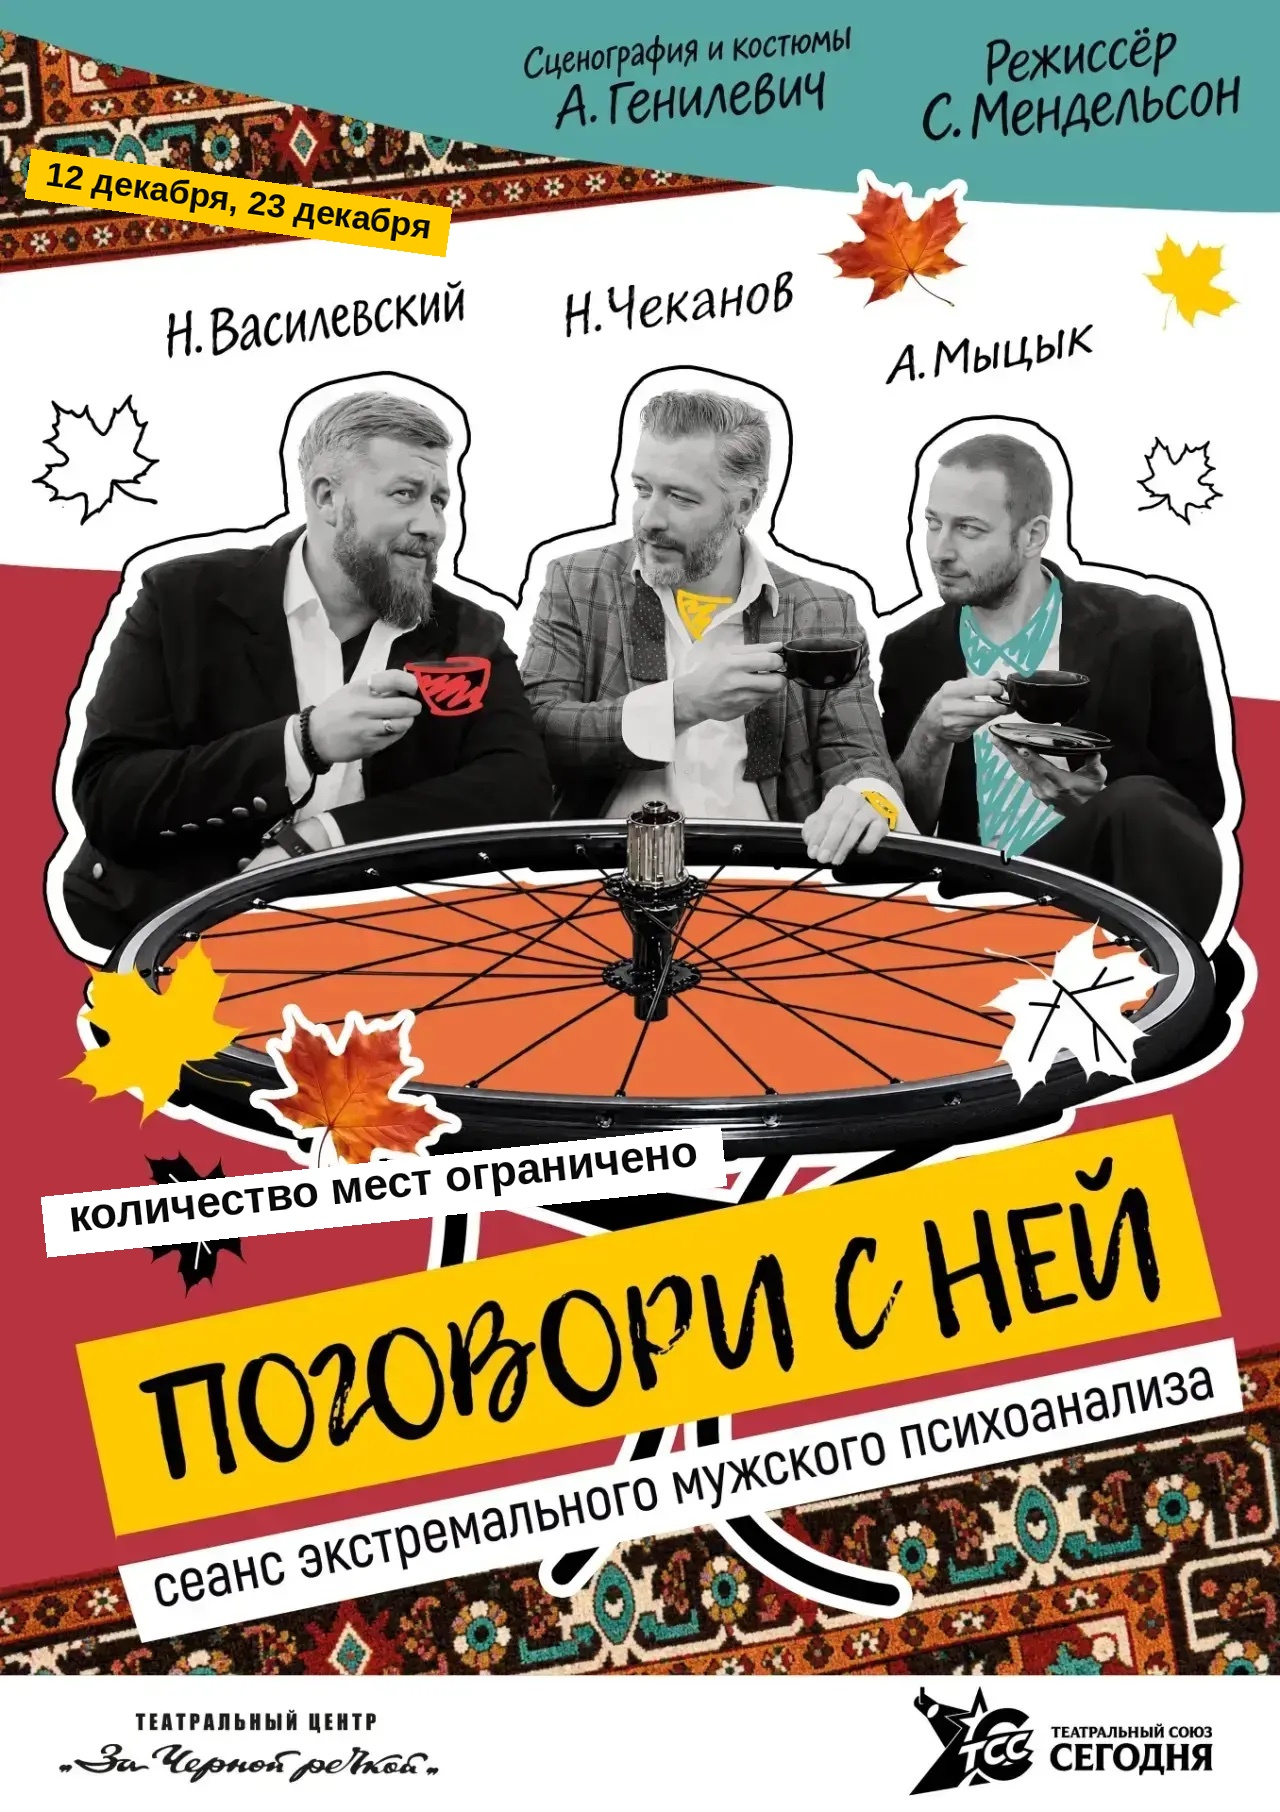
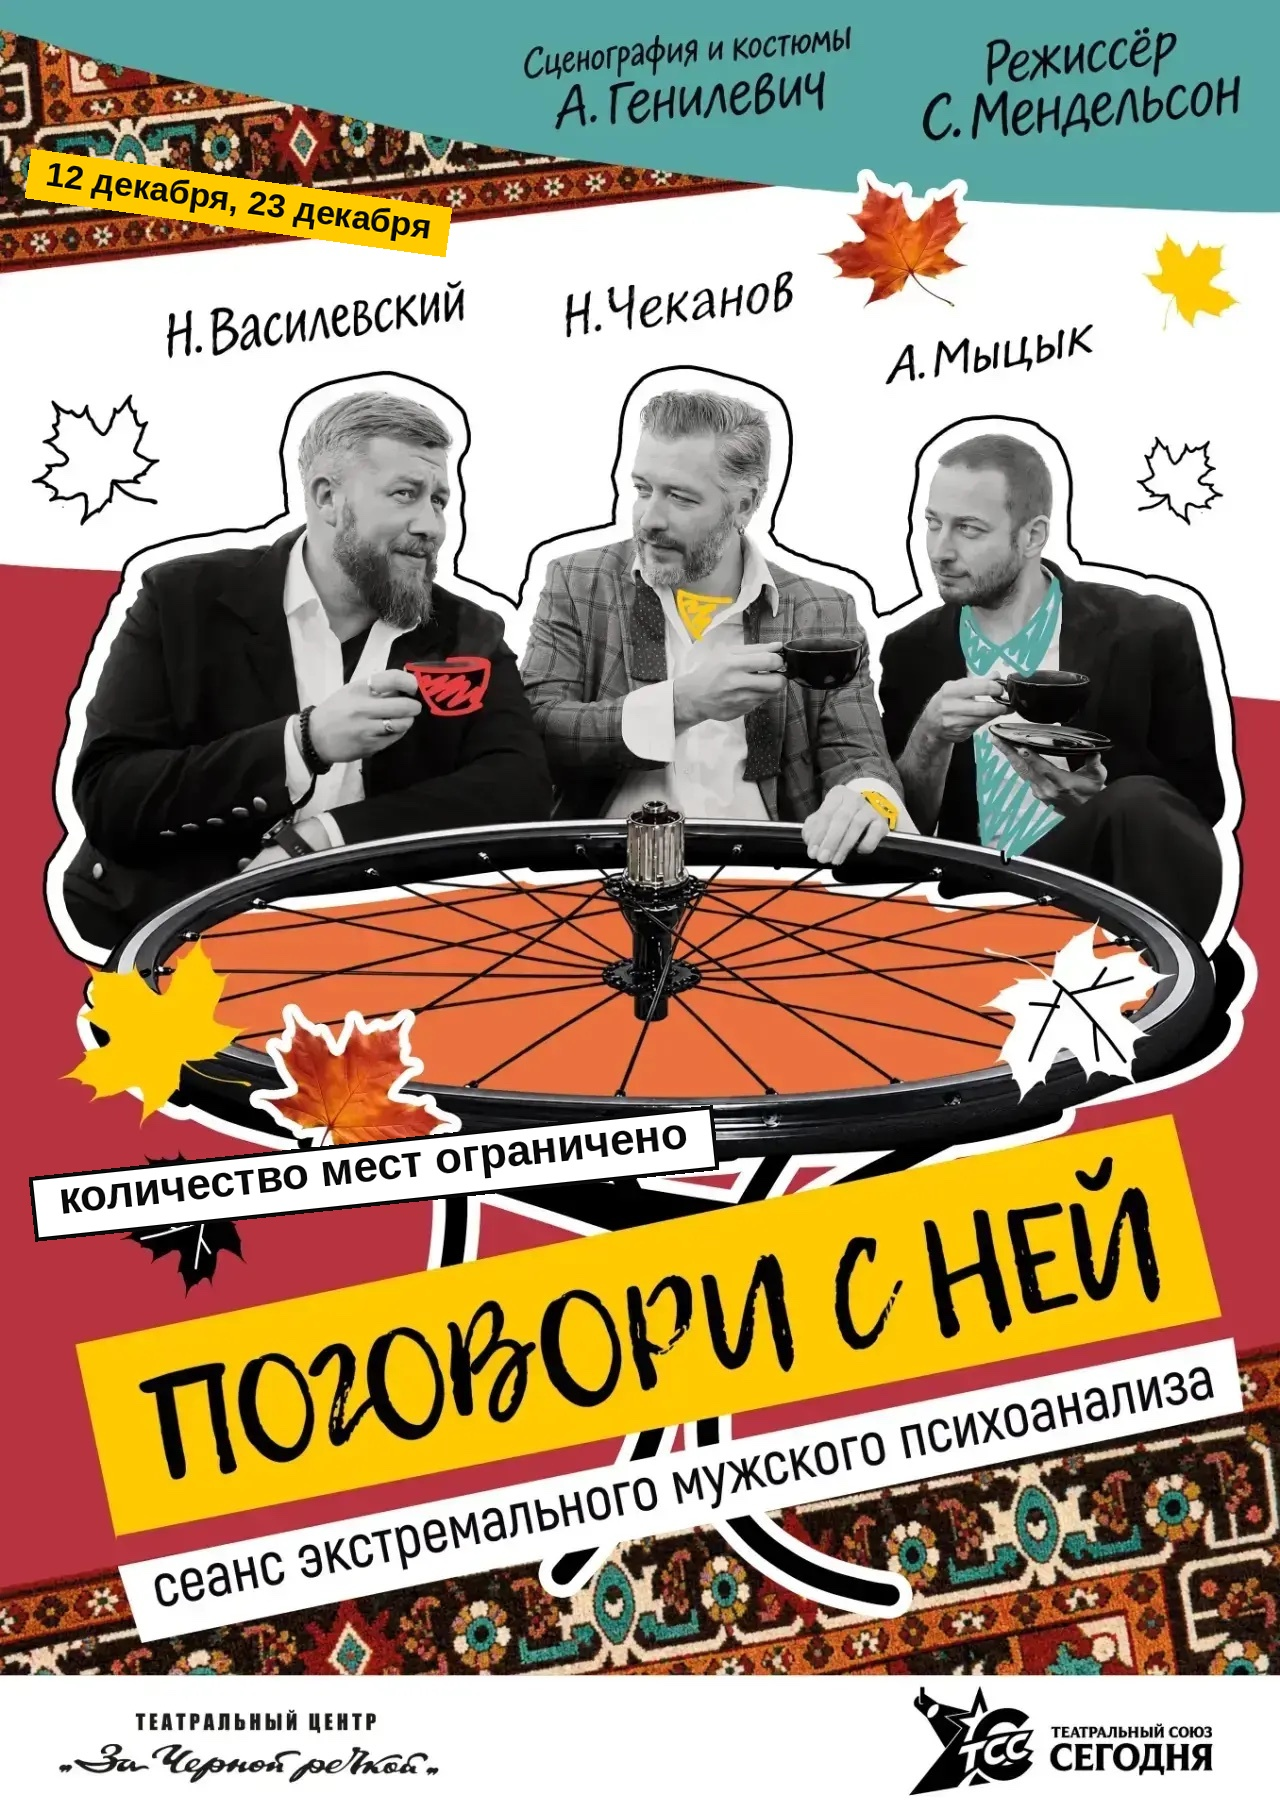
Обновить афишу и добавить страницу просмотра poster.html
Убрана «старт продаж», «количество мест ограничено» увеличена в 2 раза.

Changed region(s): [[0.0, 0.5872, 0.5625, 0.7108]]

diff --git a/poster.html b/poster.html
@@ -1,0 +1,6 @@
+<!DOCTYPE html>
+<html lang="ru"><head><meta charset="utf-8"><meta name="viewport" content="width=device-width,initial-scale=1">
+<title>Поговори с ней — афиша</title>
+<style>body{margin:0;background:#111;display:flex;justify-content:center;padding:16px}
+img{max-width:100%;height:auto;box-shadow:0 8px 40px #000}</style></head>
+<body><img src="pogovori-s-ney-poster.jpg" alt="Афиша Поговори с ней"></body></html>

diff --git a/add_poster_plates.py b/add_poster_plates.py
@@ -32,15 +32,24 @@ def paste_at(base, overlay, left, top):
 def main():
     img = Image.open(SRC).convert("RGBA")
     font_dates = ImageFont.truetype("/usr/share/fonts/truetype/liberation/LiberationSans-Bold.ttf", 34)
-    # 2x previous size (22 -> 44)
+    # Was 22 originally; 2x = 44. Keep that size, with matching padding.
     font_lim = ImageFont.truetype("/usr/share/fonts/truetype/liberation/LiberationSans-Bold.ttf", 44)
 
     dates = make_plate("12 декабря, 23 декабря", font_dates, YELLOW, pad_x=18, pad_y=9, angle=-8)
-    limited = make_plate("количество мест ограничено", font_lim, WHITE, pad_x=26, pad_y=14, angle=6)
+    limited = make_plate(
+        "количество мест ограничено",
+        font_lim,
+        WHITE,
+        pad_x=28,
+        pad_y=16,
+        angle=6,
+        outline=BLACK,
+        outline_w=4,
+    )
 
     paste_at(img, dates, 24, 148)
-    # Shift left a bit so the larger plate still fits on the red field
-    paste_at(img, limited, 40, 1125)
+    # Larger plate: keep on red field above title, left-aligned
+    paste_at(img, limited, 28, 1105)
 
     img.convert("RGB").save(OUT, quality=95, optimize=True)
     print("Wrote", OUT)
